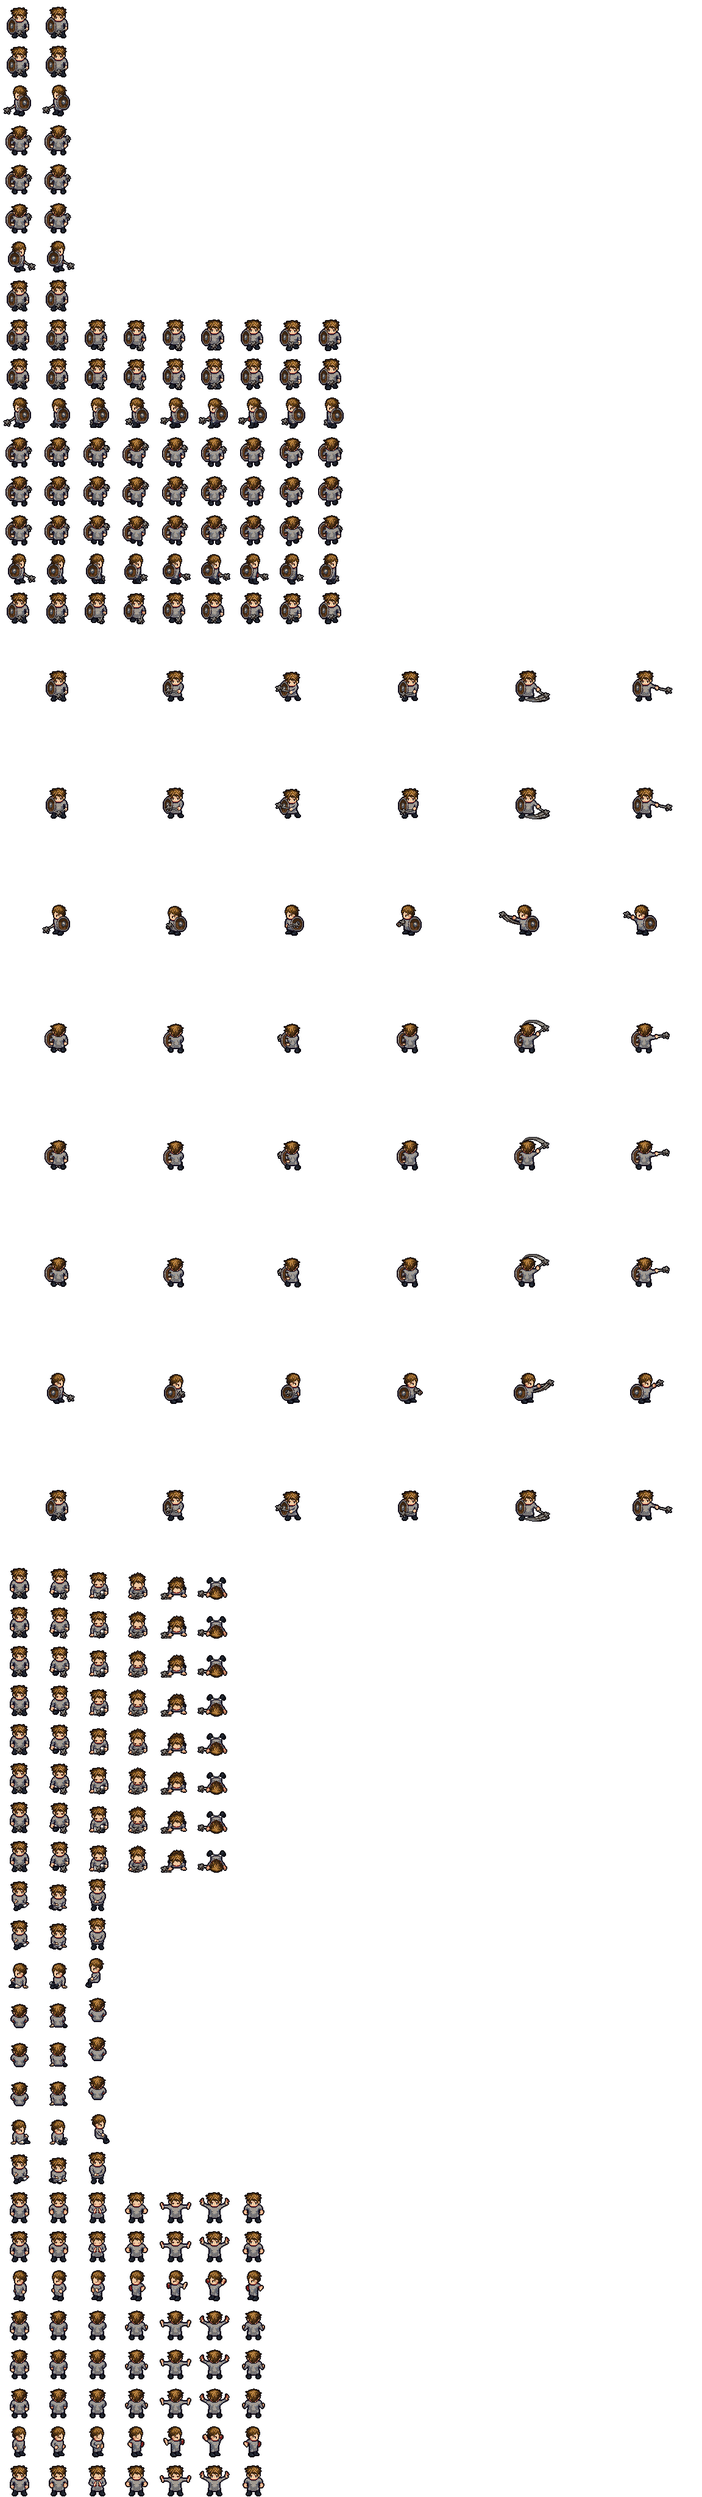
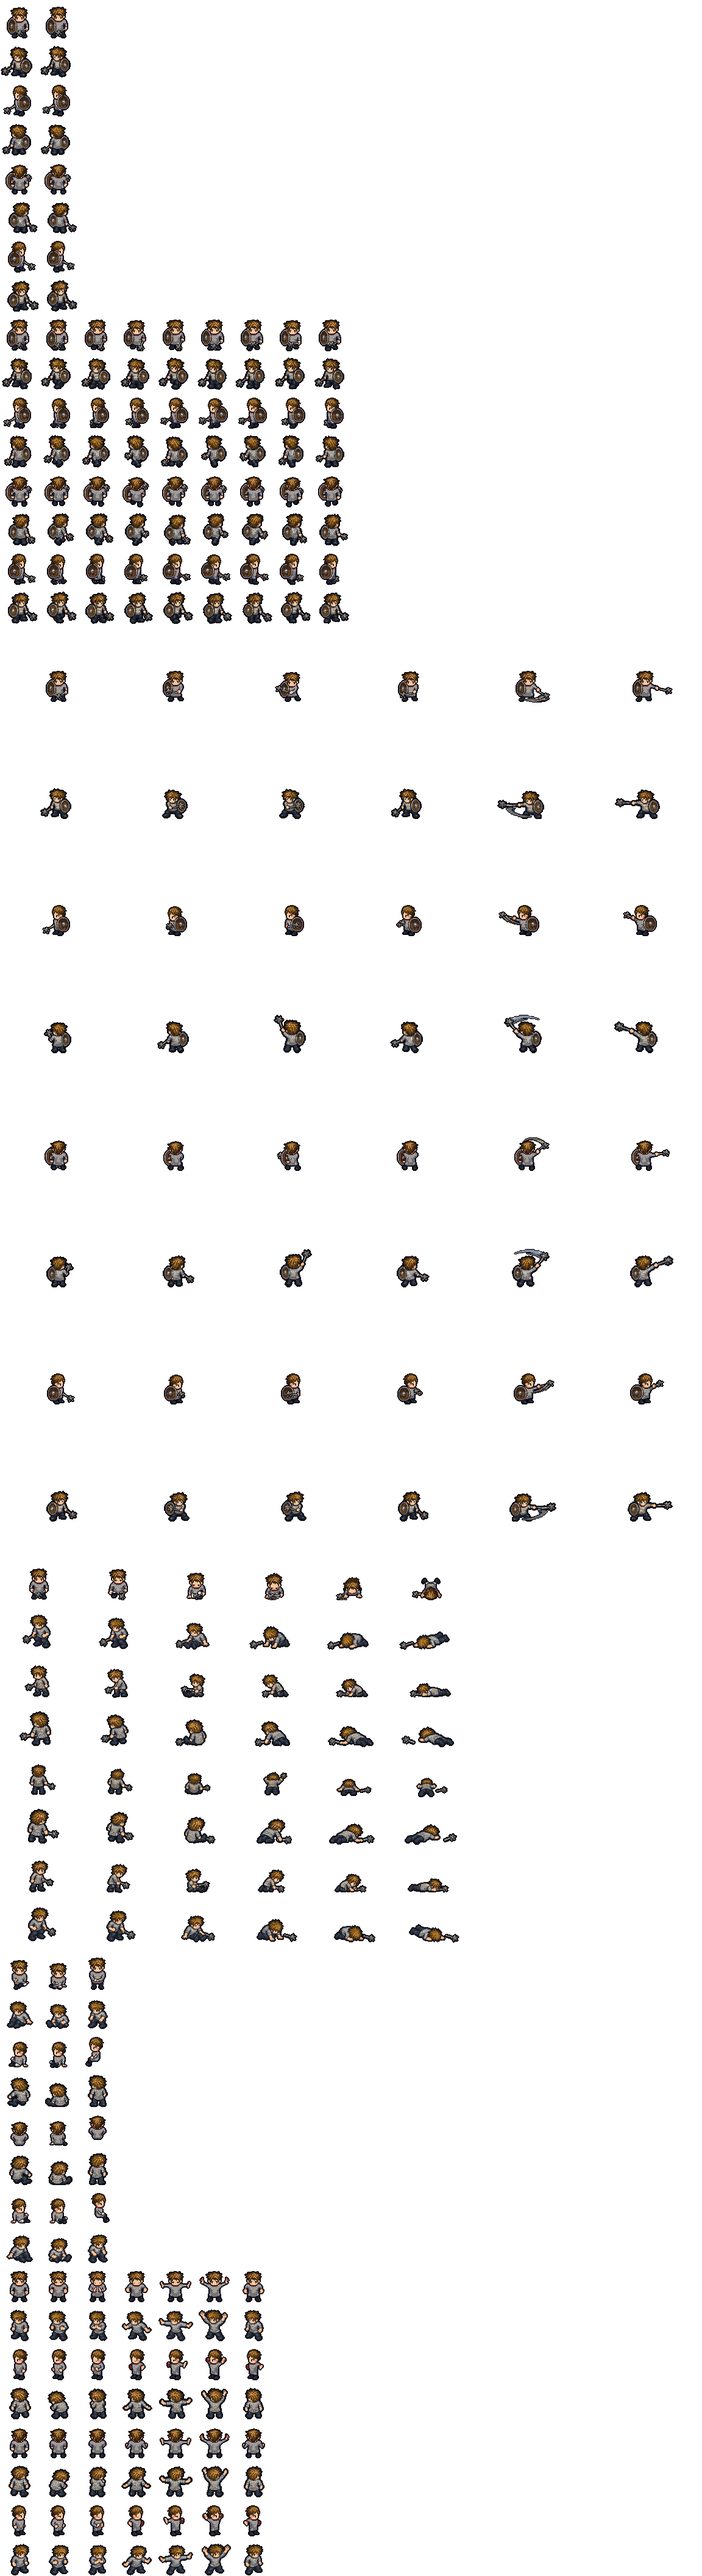
DEEP16: the cleric in all eight facings, his Sit and Cast too, from the art desk's ART-64
The fifth LPC figure through tools/lpc-diag-sheet.py: npccleric_p0's SE (SW
mirrored) and NE (NW mirrored) in every row -- Idle, Walk, Attack, Hurt, and
his two extra LPC rows, Sit and Cast, taken by name -- and E's (W mirrored)
and N's Hurt, from ART-64's six pages (deep16/_src/npccleric/ART-64/, each
matching its manifest sha256). Every LPC drawing stays; the four LPC figures
before it unchanged (pixelate.py p0 reproduces all five byte for byte). Its
spec: `chan`; the Hurt/Sit/Cast pages scaled by Cast 1 and toned against
LPC's shield-free Cast (`tone`), as the paladin's; N's Hurt `against` N.
Shows: patrollady wearing it (cast, walk, hurt) and trooper (attack); Sit
plays in neither, as on main. Eyes row eyes-cleric-eight-1015.

Griz, 10-15: "Yes, we might manage all the snoot art before we're out of usage".

diff --git a/js/eyes.js b/js/eyes.js
@@ -281,6 +281,9 @@
     'eyes-barbarian-eight-1015': { pri: 2, group: G2, title: 'The barbarian in all eight facings: the art desk’s ART-66, the fourth LPC figure (10-15)', pt: 'the bestiary §26, part 3 (tools/lpc-diag-sheet.py; deep16/art/npcbarbarian_p0; snoot-mode/js/view.js V.FULL8) · eyes',
       url: 'deep16/?show=trooper&sheet=npcbarbarian_p0&fresh=1',
       look: 'The barbarian -- the class barbarian’s look in DEEP16 (the Pocket DM’s, deep16/?npc=barbarian) and the plains tribes’ men in the Snoot. On the test ground the troopers wear his sheet, every row twice. SE and SW are new in every row: three-quarter front, the great axe held low on screen-right; NE and NW likewise, from behind-right. E, W and N now fall forward (HURT is his death); S keeps LPC’s fall. Judge the turns S to SE to E and N to NE to E: one figure, one size. ATTACK 5 is a broad silver sweep, as drawn. N’s last two falls are foreshortened hard from behind: a body on the ground, or a crouch? In the Snoot his stacks now face NE and NW truly.' },
+    'eyes-cleric-eight-1015': { pri: 2, group: G2, title: 'The cleric in all eight facings, his SIT and CAST too: the art desk’s ART-64, the fifth LPC figure (10-15)', pt: 'the bestiary §26, part 4 (tools/lpc-diag-sheet.py; deep16/art/npccleric_p0; snoot-mode/js/view.js V.FULL8) · eyes',
+      url: 'deep16/?show=patrollady&sheet=npccleric_p0&fresh=1',
+      look: 'The cleric -- the class cleric’s look in DEEP16 (the Pocket DM’s, deep16/?npc=cleric) and Newland’s heavy foot and crossbows in the Snoot. On the test ground the patrol ladies wear his sheet: they CAST (his prayer: hands together, arms out, arms up), walk and fall, every row twice. SE and SW are new in every row, CAST and SIT too, the mace on screen-right and the shield on screen-left; NE and NW likewise, from behind-right. E, W and N now fall forward, the mace dropped beside him (HURT is his death); S keeps LPC’s fall. Judge the turns S to SE to E and N to NE to E: one figure, one size, one colour (the shield-free pages were toned against LPC’s CAST). SIT never plays in a fight (it did not on main either): the row gallery shows it, deep16/?rows=trooper&sheet=npccleric_p0 (that page’s eyes column names the trooper’s row: mark this one here). His ATTACK: deep16/?show=trooper&sheet=npccleric_p0. In the Snoot his stacks now face NE and NW truly.' },
     'eyes-snoot-ring-1015c': { pri: 1, group: G2, title: 'THE SNOOT: the ring of commands, the camera a step closer, the ground past the edge, the stacks in formation; AVOID, surprise, the road bonus (10-15)', pt: 'the Snoot mode §15 (snoot-mode/js/view.js, ui.js, rules.js) · eyes',
       url: 'snoot-mode/?fresh',
       look: 'NEW BATTLE. The map opens a step closer than the whole map; the dim ground runs on past every edge, the west, south and pirate roads out of it. The wheel (or + and -) steps the zoom about the mouse, a drag or the arrows pan. Each stack stands in its formation -- a line abreast across its facing, a column in file, the death-watch in a ring -- with a chevron on the side it faces. Click Newland\'s road patrol: a ring of buttons round it -- HOLD, CHARGE?, AVOID, LINE, COLUMN, SQUARE and the two turns (the four get only their orders); AVOID holds and slips a hex away from anything that comes. Resolve days: a fight opens with each side\'s die for surprise (SURPRISE! on a 1 or 2: the unready side taken in the flank in the first round); a unit under AVOID that is come at shows THEY SLIP AWAY or CAUGHT with its roll; the Dominion\'s wagons at the inn avoid. Newland\'s horse in column on the road march two hexes further; foot in column no further.' },

diff --git a/deep16/index.html b/deep16/index.html
@@ -77,7 +77,7 @@
 <script src="js/art.js?v=e1ce4cf012"></script>
 <script src="data/cavern.js?v=647c1a184a"></script>
 <script src="data/maps.js?v=971b4fe9e6"></script>
-<script src="data/sprites.js?v=6e7dc0c36b"></script>
+<script src="data/sprites.js?v=71eac105dd"></script>
 <script src="js/sprites.js?v=82883d13a8"></script>
 <script src="js/save.js?v=65142ffd7b"></script>
 <script src="data/spells.js?v=2b8e2ed5b1"></script>
@@ -143,7 +143,7 @@
 <script src="js/embed.js?v=fde3abdebd"></script>
 <script src="js/show.js?v=8e550011f4"></script>
 <script src="js/skyshow.js?v=7151daab7a"></script>
-<script src="../js/eyes.js?v=eca1a3da2f"></script>
+<script src="../js/eyes.js?v=82db76858e"></script>
 <script src="js/onegallery.js?v=175d0ae3bd"></script>
 <script src="js/main.js?v=39cd8f6139"></script>
 </body>

diff --git a/deep16/data/sprites.js b/deep16/data/sprites.js
@@ -6108,7 +6108,7 @@
 }
 },
 "npccleric_p0": {
-"image": "art/npccleric_p0.png?v=364c7801a4",
+"image": "art/npccleric_p0.png?v=f7bc098e0c",
 "fw": 64,
 "fh": 64,
 "ax": 32,
@@ -6144,15 +6144,15 @@
 },
 "hurt": {
 "y": 2560,
-"fw": 64,
-"fh": 64,
-"ax": 32,
+"fw": 128,
+"fh": 80,
+"ax": 64,
 "ay": 61,
 "frames": 6,
 "fps": 10
 },
 "sit": {
-"y": 3072,
+"y": 3200,
 "fw": 64,
 "fh": 64,
 "ax": 32,
@@ -6161,13 +6161,34 @@
 "fps": 2
 },
 "cast": {
-"y": 3584,
+"y": 3712,
 "fw": 64,
 "fh": 64,
 "ax": 32,
 "ay": 61,
 "frames": 7,
 "fps": 10
+}
+},
+"diag": {
+"by": "tools/lpc-diag-sheet.py",
+"from": "ART-64",
+"drawn": [
+"SE idle/walk/attack",
+"SE hurt/sit/cast",
+"NE idle/walk/attack",
+"NE hurt/sit/cast",
+"E hurt",
+"N hurt"
+],
+"owed": [],
+"lpc_cells": {
+"hurt": [
+64,
+64,
+32,
+61
+]
 }
 }
 },

diff --git a/tools/lpc-diag-sheet.py b/tools/lpc-diag-sheet.py
@@ -199,6 +199,43 @@ FIGS = {
                          rows=[('hurt', (180, 230, 2048, 536), (536, 590), NUM(6))]),
         },
         owed={}),
+    # (Sit and Cast are extra rows, taken by name; his Hurt, Sit and Cast are drawn without the shield, so those pages are toned against
+    # LPC's Cast and scaled by Cast 1, standing straight)
+    'npccleric': dict(                                        # ART-64, 10-15: six pages (deep16/_src/npccleric/ART-64/)
+        dir='npccleric/ART-64',
+        pages={
+            'H1P1': dict(file='ART-64_HEAD-1_PAGE-1.png', view='SE', ref=('idle', '1'), chan=14,          # SE: Idle 2, Walk 9, Attack 6
+                         text=[(0, 120, 180, 175), (0, 372, 180, 425), (0, 636, 180, 690),
+                               (180, 248, 1882, 280), (180, 505, 1882, 540), (180, 764, 1882, 798)],
+                         rows=[('idle', (180, 20, 1882, 248), (248, 280), NUM(2)),
+                               ('walk', (180, 285, 1882, 505), (505, 540), NUM(9)),
+                               ('attack', (180, 545, 1882, 764), (764, 798), NUM(6))]),
+            'H1P2': dict(file='ART-64_HEAD-1_PAGE-2.png', view='SE', ref=('cast', '1'), chan=14, tone=('cast', 'cast'),   # SE: Hurt 6, Sit 3, Cast 7
+                         text=[(0, 85, 180, 148), (0, 360, 180, 422), (0, 585, 180, 645),
+                               (180, 274, 1941, 305), (180, 515, 1941, 545), (180, 764, 1941, 795)],
+                         rows=[('hurt', (180, 20, 1941, 305), (276, 305), NUM(6)),
+                               ('sit', (180, 305, 1941, 545), (516, 545), NUM(3)),
+                               ('cast', (180, 545, 1941, 795), (766, 795), NUM(7))]),
+            'H2P1': dict(file='ART-64_HEAD-2_PAGE-1.png', view='NE', ref=('idle', '1'), chan=14,          # NE: Idle 2, Walk 9, Attack 6
+                         text=[(0, 165, 160, 225), (0, 468, 160, 527), (0, 752, 160, 812),
+                               (160, 312, 1536, 345), (160, 616, 1536, 650), (160, 914, 1536, 948)],
+                         rows=[('idle', (160, 60, 1536, 312), (312, 345), NUM(2)),
+                               ('walk', (160, 350, 1536, 616), (616, 650), NUM(9)),
+                               ('attack', (160, 655, 1536, 914), (914, 948), NUM(6))]),
+            'H2P2': dict(file='ART-64_HEAD-2_PAGE-2.png', view='NE', ref=('cast', '1'), chan=14, tone=('cast', 'cast'),   # NE: Hurt 6, Sit 3, Cast 7
+                         text=[(0, 110, 200, 180), (0, 360, 200, 420), (0, 610, 200, 675),
+                               (200, 248, 1994, 280), (200, 500, 1994, 535), (200, 745, 1994, 778)],
+                         rows=[('hurt', (200, 15, 1994, 248), (248, 280), NUM(6)),
+                               ('sit', (200, 290, 1994, 500), (500, 535), NUM(3)),
+                               ('cast', (200, 545, 1994, 745), (745, 778), NUM(7))]),
+            'H4P1': dict(file='ART-64_HEAD-4_PAGE-1.png', view='E', ref=('hurt', '1'), chan=14, tone=('hurt', 'cast'),    # E: Hurt 6
+                         text=[(0, 332, 180, 408), (180, 555, 1950, 595)],
+                         rows=[('hurt', (180, 200, 1950, 555), (555, 595), NUM(6))]),
+            'H5P1': dict(file='ART-64_HEAD-5_PAGE-1.png', view='N', ref=('hurt', '1'), against='N', chan=14, tone=('hurt', 'cast'),   # N: Hurt 6
+                         text=[(0, 214, 180, 288), (180, 540, 2117, 582)],
+                         rows=[('hurt', (180, 180, 2117, 540), (540, 582), NUM(6))]),
+        },
+        owed={}),
 }
 
 
